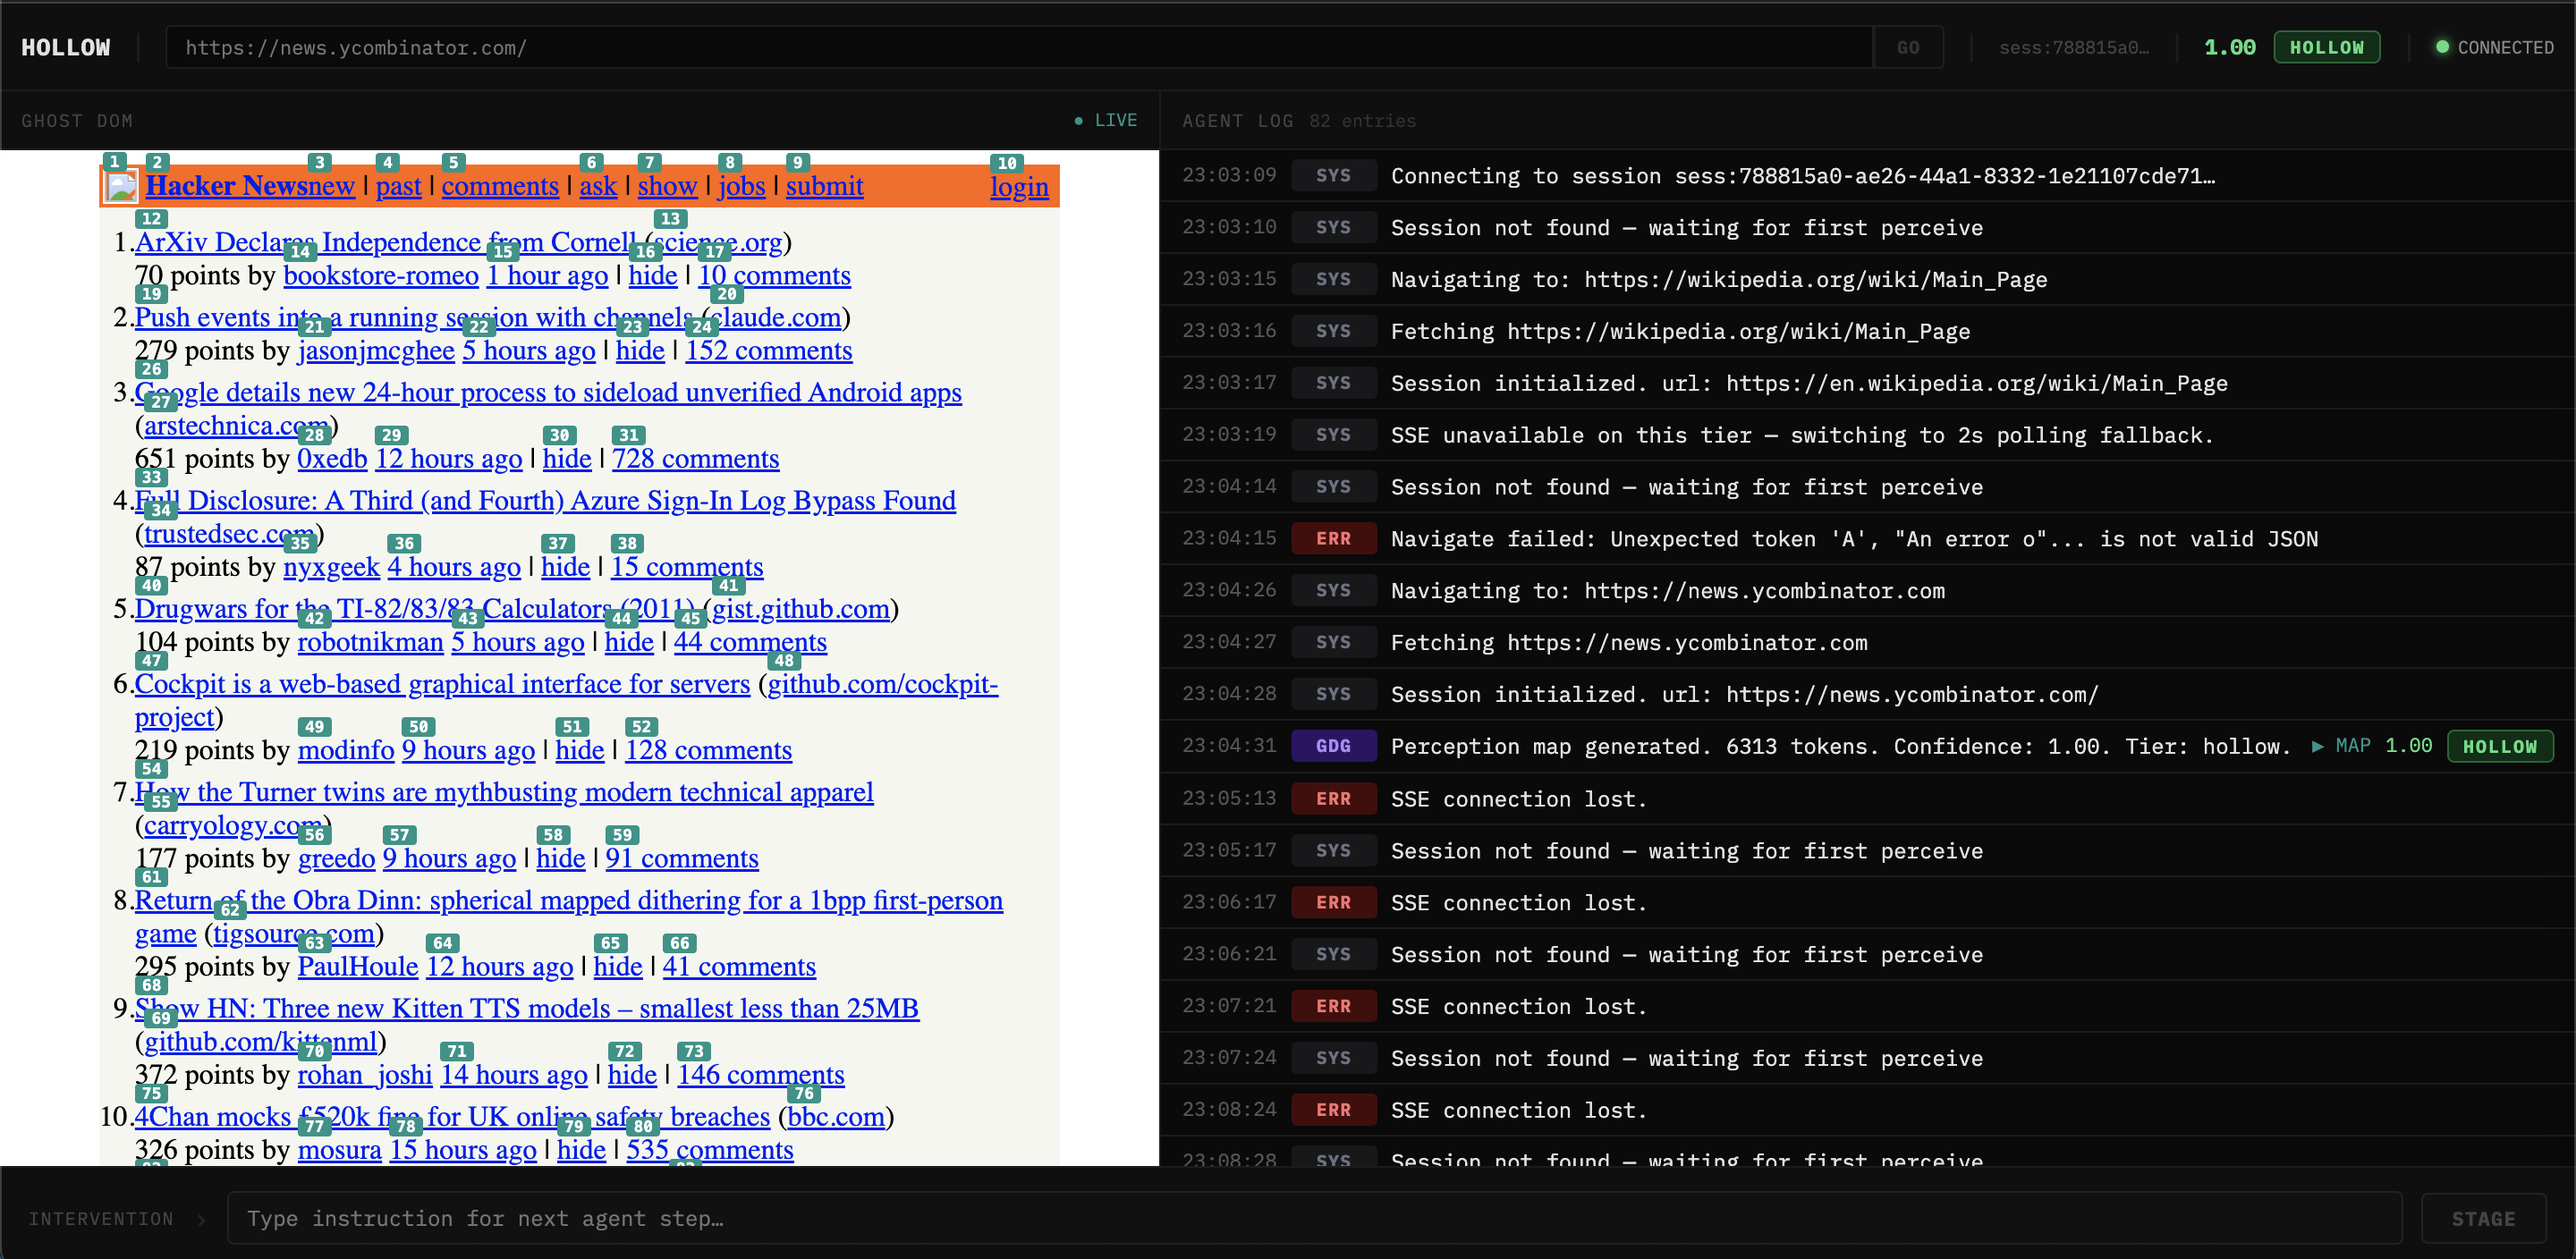
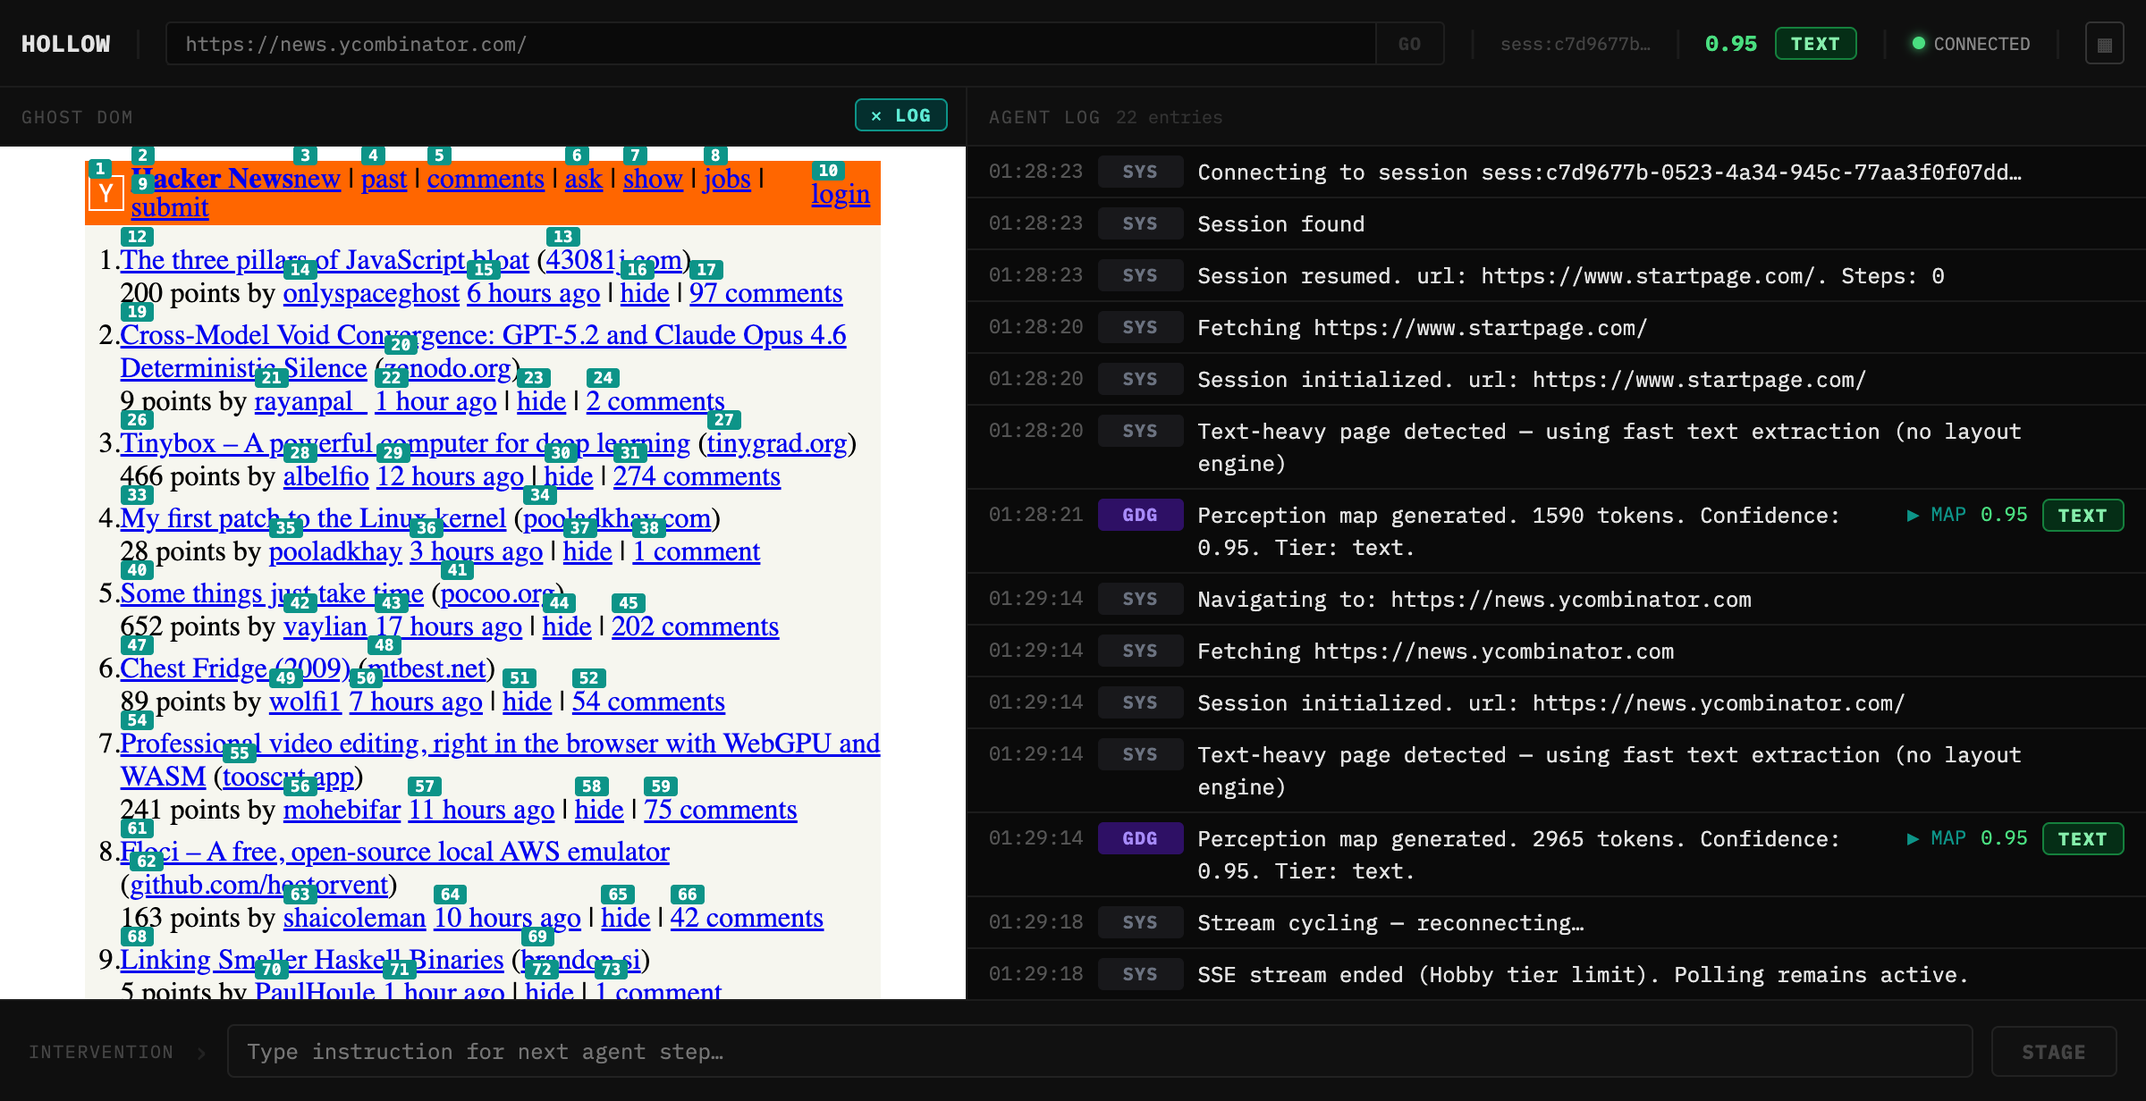
docs: README rewrite — pain and performance first
Replace old screenshot (agent log heavy) with a live capture showing:
- GDG map left panel: HN front page with numbered element badges on every
  actionable link, real story titles, point/comment counts
- Top bar: URL, session ID, 0.95 confidence, TEXT tier pill, CONNECTED
- Right panel: live SSE pipeline log — fast-path detection, token count,
  tier routing, stream cycling events
- Intervention bar at bottom

Embed via raw.githubusercontent.com so it renders on GitHub, HN, and
any markdown renderer that follows the URL.

diff --git a/README.md b/README.md
@@ -7,6 +7,8 @@ Serverless web perception for AI agents. No Chromium. No BaaS. No GPU.
 [![Live](https://img.shields.io/badge/live-hollow--tan--omega.vercel.app-teal.svg)](https://hollow-tan-omega.vercel.app)
 [![GitHub](https://img.shields.io/badge/github-Badgerion%2Fhollow-gray.svg)](https://github.com/Badgerion/hollow)
 
+![Matrix Mirror — Hacker News loaded with TEXT tier, numbered element badges, 0.95 confidence, and live SSE pipeline log](https://raw.githubusercontent.com/Badgerion/hollow/main/assets/mirror-screenshot.png)
+
 ---
 
 ## The pain
